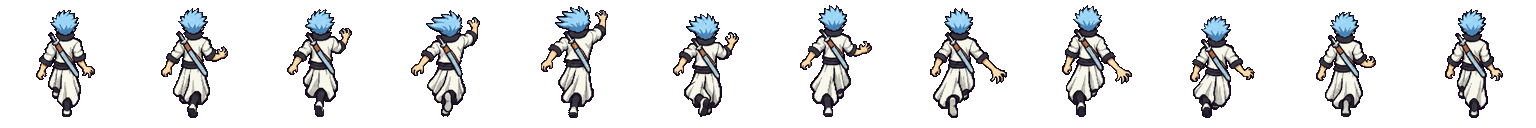
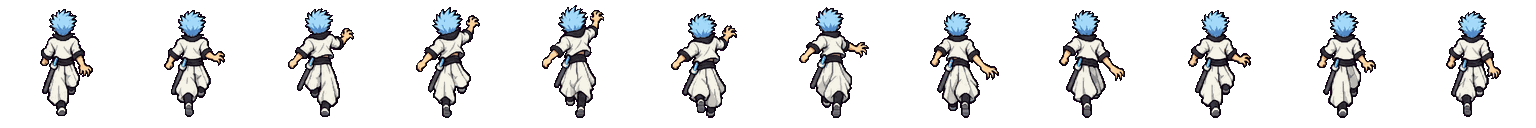
fix(cast): regenerate off-model strips and keep Ichigo's back rule to him
Ishida's front move_slash came out in another art style, so his sprite
changed mid-attack. The back-view sword rule added for Ichigo lived in
the shared view text, which put Grimmjow's katana on his back and a
strap on Sado's run. Move the rule to Ichigo's cast entry and regenerate
the seven affected strips.

diff --git a/geradores/player_kit_anims.py b/geradores/player_kit_anims.py
@@ -7,13 +7,17 @@ Cada animação cobre uma situação que existe no jogo (ver docs/direcionamento
 DIRECTIONS = {
     "front": "Seen from the FRONT: he faces down toward the camera, in the same 3/4 top-down view as the front reference.",
     "left": "Seen from his LEFT SIDE: he faces and acts toward the LEFT of the image, as in the side reference.",
-    "back": ("Seen from BEHIND: he faces up away from the camera, back of the head visible, as in the back reference. "
-             "WHENEVER THE SWORD IS ON HIS BACK it lies flat ON TOP of the robe, fully visible and never hidden by the body: "
-             "the short black handle sticks up just above his RIGHT shoulder, and the broad blade starts right below it at the "
-             "shoulder blade and crosses his whole back diagonally down to his LEFT hip, held by the brown strap. The blade tip "
-             "ends at the left hip, never lower than the top of the thigh. IGNORE the sword placement of the back reference image, "
-             "which hangs too low; copy only the character design from it."),
+    "back": "Seen from BEHIND: he faces up away from the camera, back of the head visible, as in the back reference.",
 }
+
+# Só o Ichigo leva a espada nas costas. Este aviso vai junto da vista de costas dele e de mais ninguém:
+# no texto comum da vista, ele empurrava a katana do Grimmjow para as costas, com a tira marrom.
+ICHIGO_BACK_NOTE = (
+    "WHENEVER THE SWORD IS ON HIS BACK it lies flat ON TOP of the robe, fully visible and never hidden by the body: "
+    "the short black handle sticks up just above his RIGHT shoulder, and the broad blade starts right below it at the "
+    "shoulder blade and crosses his whole back diagonally down to his LEFT hip, held by the brown strap. The blade tip "
+    "ends at the left hip, never lower than the top of the thigh. IGNORE the sword placement of the back reference image, "
+    "which hangs too low; copy only the character design from it.")
 
 SWORD_BACK = "sword on his back"
 TWO_HANDS = "both hands on the sword handle"

diff --git a/geradores/kit_cast.py b/geradores/kit_cast.py
@@ -14,7 +14,7 @@ import cast_grimmjow
 import cast_ishida
 import cast_sado
 from player_kit_anims import ANIMS as ICHIGO_ANIMS
-from player_kit_anims import LOOP_NOTE, anim
+from player_kit_anims import ICHIGO_BACK_NOTE, LOOP_NOTE, anim
 
 BODY_CLIPS = ("idle", "walk", "run", "jump", "land", "hurt", "hurt_heavy", "hurt_air", "death", "level_up", "afk")
 
@@ -61,6 +61,7 @@ def build_cast(module) -> dict:
 
 
 CAST = {
-    "ichigo_shikai": {"character": ICHIGO, "garment": "robe sleeves and hakama", "ruler": "orange", "anims": ICHIGO_ANIMS},
+    "ichigo_shikai": {"character": ICHIGO, "garment": "robe sleeves and hakama", "ruler": "orange", "anims": ICHIGO_ANIMS,
+                      "back_note": ICHIGO_BACK_NOTE},
     **{m.ID: build_cast(m) for m in (cast_ishida, cast_sado, cast_grimmjow)},
 }

diff --git a/geradores/gen_player_kit.py b/geradores/gen_player_kit.py
@@ -57,7 +57,10 @@ def build_image_prompt(char: str, anim_id: str, direction: str) -> str:
     anim = cast["anims"][anim_id]
     beats = "\n".join(f"Frame {i}: {beat}" for i, beat in enumerate(anim["beats"], start=1))
     grid = GRID.format(garment=cast["garment"])
-    return (f"{cast['character']}\n\nVIEW: {DIRECTIONS[direction]} Keep this exact view in all 12 frames; the character "
+    view = DIRECTIONS[direction]
+    if direction == "back" and cast.get("back_note"):
+        view = f"{view} {cast['back_note']}"
+    return (f"{cast['character']}\n\nVIEW: {view} Keep this exact view in all 12 frames; the character "
             f"never turns to another direction.\n\nACTION: {anim['summary']}\n{beats}\n"
             f"{anim.get('loop_note', '')}\n\n{grid}\n\n{STYLE}")
 

diff --git a/docs/aprendizados.md b/docs/aprendizados.md
@@ -149,3 +149,11 @@ O número é da família inteira. Item novo pega `max + 1` e não reusa número 
 **O que fazer:** passar sempre a malha (`setPlayerCamouflage(player, playerMesh, afk)`).
 
 **Evidência:** no navegador, perda de foco com o Sado em campo deixou `playerMesh.material.opacity` em 0,35; depois de "Voltar ao menu" e de uma partida nova, continuava 0,35. Com a malha passada no `resetMatch`, volta a 1.
+
+## 19. Texto de vista compartilhado pelo elenco leva a arma de um personagem para o outro
+
+**Causa raiz:** `gen_player_kit.py` monta o prompt de todo o elenco com `DIRECTIONS` de `player_kit_anims.py`. A correção da espada do Ichigo (PR 358) pôs na vista `back` a regra "a lâmina atravessa as costas, presa pela tira marrom". Com isso o Grimmjow ganhou a katana nas costas em parte das tiras de costas, e o Sado uma faixa prateada na corrida. Além disso, o Codex às vezes muda o estilo de uma folha inteira: o `move_slash` de frente do Ishida saiu com outro traço e tingido de azul, e o sprite trocava no meio do golpe.
+
+**O que fazer:** regra de um personagem fica no cadastro dele em `kit_cast.py` (`back_note`), nunca no texto comum da vista. Depois de gerar um kit, compare a cor média de cada tira com a mediana do kit na mesma vista. Uma tira com desvio bem acima dos outros é suspeita e precisa ser conferida na folha.
+
+**Evidência:** a cor média do `move_slash_front` do Ishida ficou 33,9 longe da mediana, contra uma dispersão típica de 6. A folha de costas do Grimmjow mostrava a katana nas costas em `afk`, `hurt_air`, `death` e `move_getsuga`, e o cabelo roxo em `air_slash`. Depois de regenerar, as três folhas ficaram consistentes com o `idle`, e `validate_player_kit.py` passa nos quatro kits.
